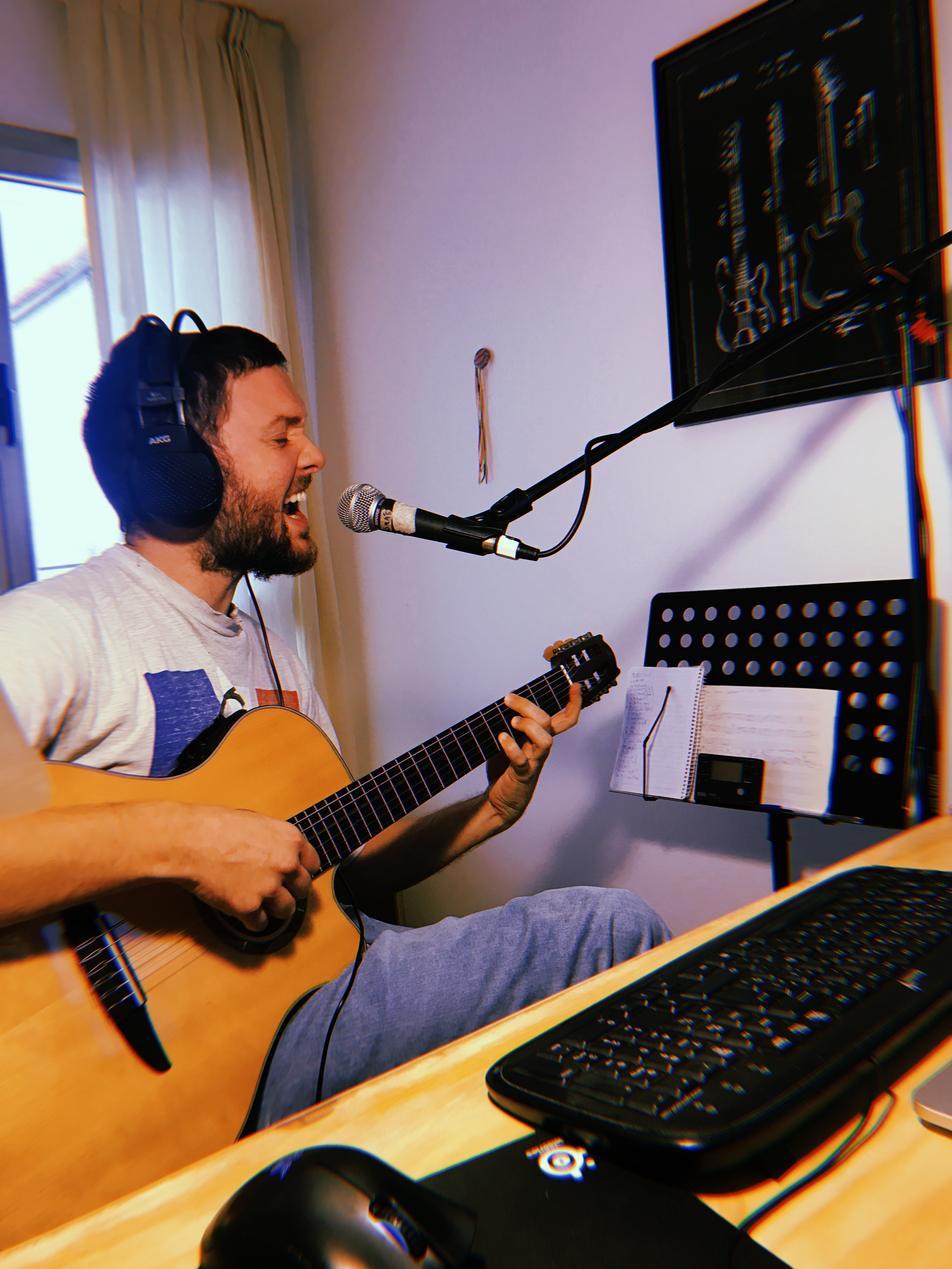
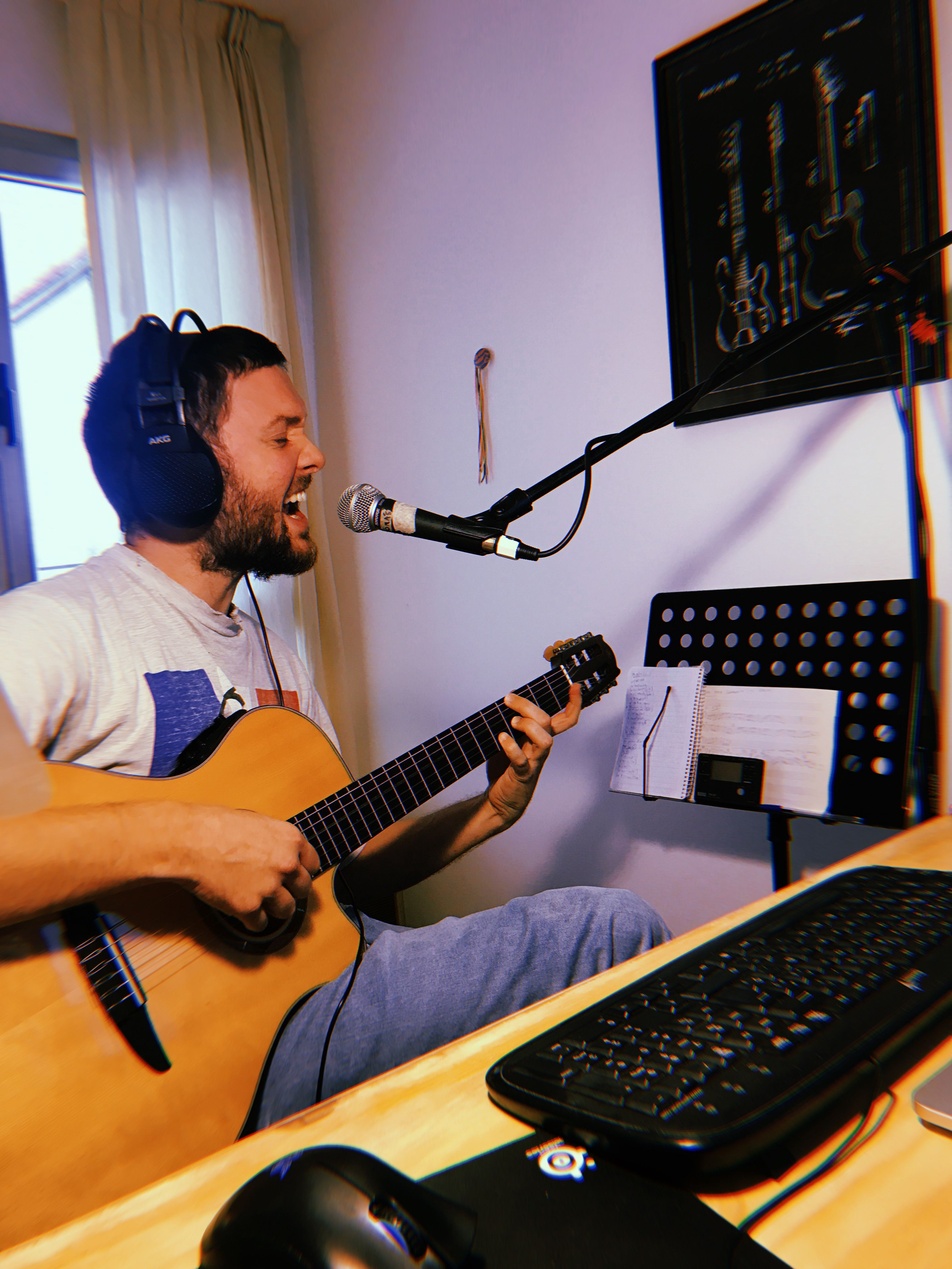
eigth commit

diff --git a/public/index.html b/public/index.html
@@ -8,6 +8,10 @@
     <meta name="Tom's website"
       content="Personal web-app for music content"
     />
+    <meta name="description" content="Tom's Music Website" />
+    <meta name="og:title" content="Tom's Website" />
+    <meta name="og:description" content="Tom's Music Website" />
+    <meta name="og:image" content="%PUBLIC_URL%/icons/og_image.png" />
     <link rel="apple-touch-icon" href="%PUBLIC_URL%/icons/apple-touch-icon.png" />
 
     <!--

diff --git a/src/components/Core/Heading.js b/src/components/Core/Heading.js
@@ -1,6 +1,6 @@
 import { useLanguage } from "../../context/LangContext"
 import classes from "./Heading.module.css"
-import sun from "../../assets/sun.png"
+import sun from "../../assets/sun.jpg"
 
 export default function Heading ({logoAlt, insideAlt, insideSrc, h1, style}) {
 const {language} = useLanguage();

diff --git a/src/components/About/MainAbout.module.css b/src/components/About/MainAbout.module.css
@@ -4,7 +4,7 @@
 .aboutMain p {
     animation: none;
 }
-.heading {
+/* .heading {
     display: flex;
     align-items: center;
     margin: 27px 0 36px 55px;
@@ -32,7 +32,7 @@
 .heading h1 {
     font-size: 32px;
     margin: 0 27px;
-}
+} */
 
 .bio {
     /* display: flex;

diff --git a/src/components/About/MainAbout.js b/src/components/About/MainAbout.js
@@ -1,5 +1,4 @@
 import classes from "./MainAbout.module.css"
-import sun from "../../assets/sun.png"
 import footprints from "../../assets/footprint.png"
 import { useLanguage } from "../../context/LangContext"
 import bioPic1 from "../../assets/bioPic1.png"

diff --git a/src/components/Work/MainWork.js b/src/components/Work/MainWork.js
@@ -1,5 +1,4 @@
 import classes from "./MainWork.module.css"
-import sun from "../../assets/sun.png"
 import playIcon from "../../assets/playIcon.svg"
 import { useLanguage } from "../../context/LangContext"
 import Heading from "../Core/Heading"
